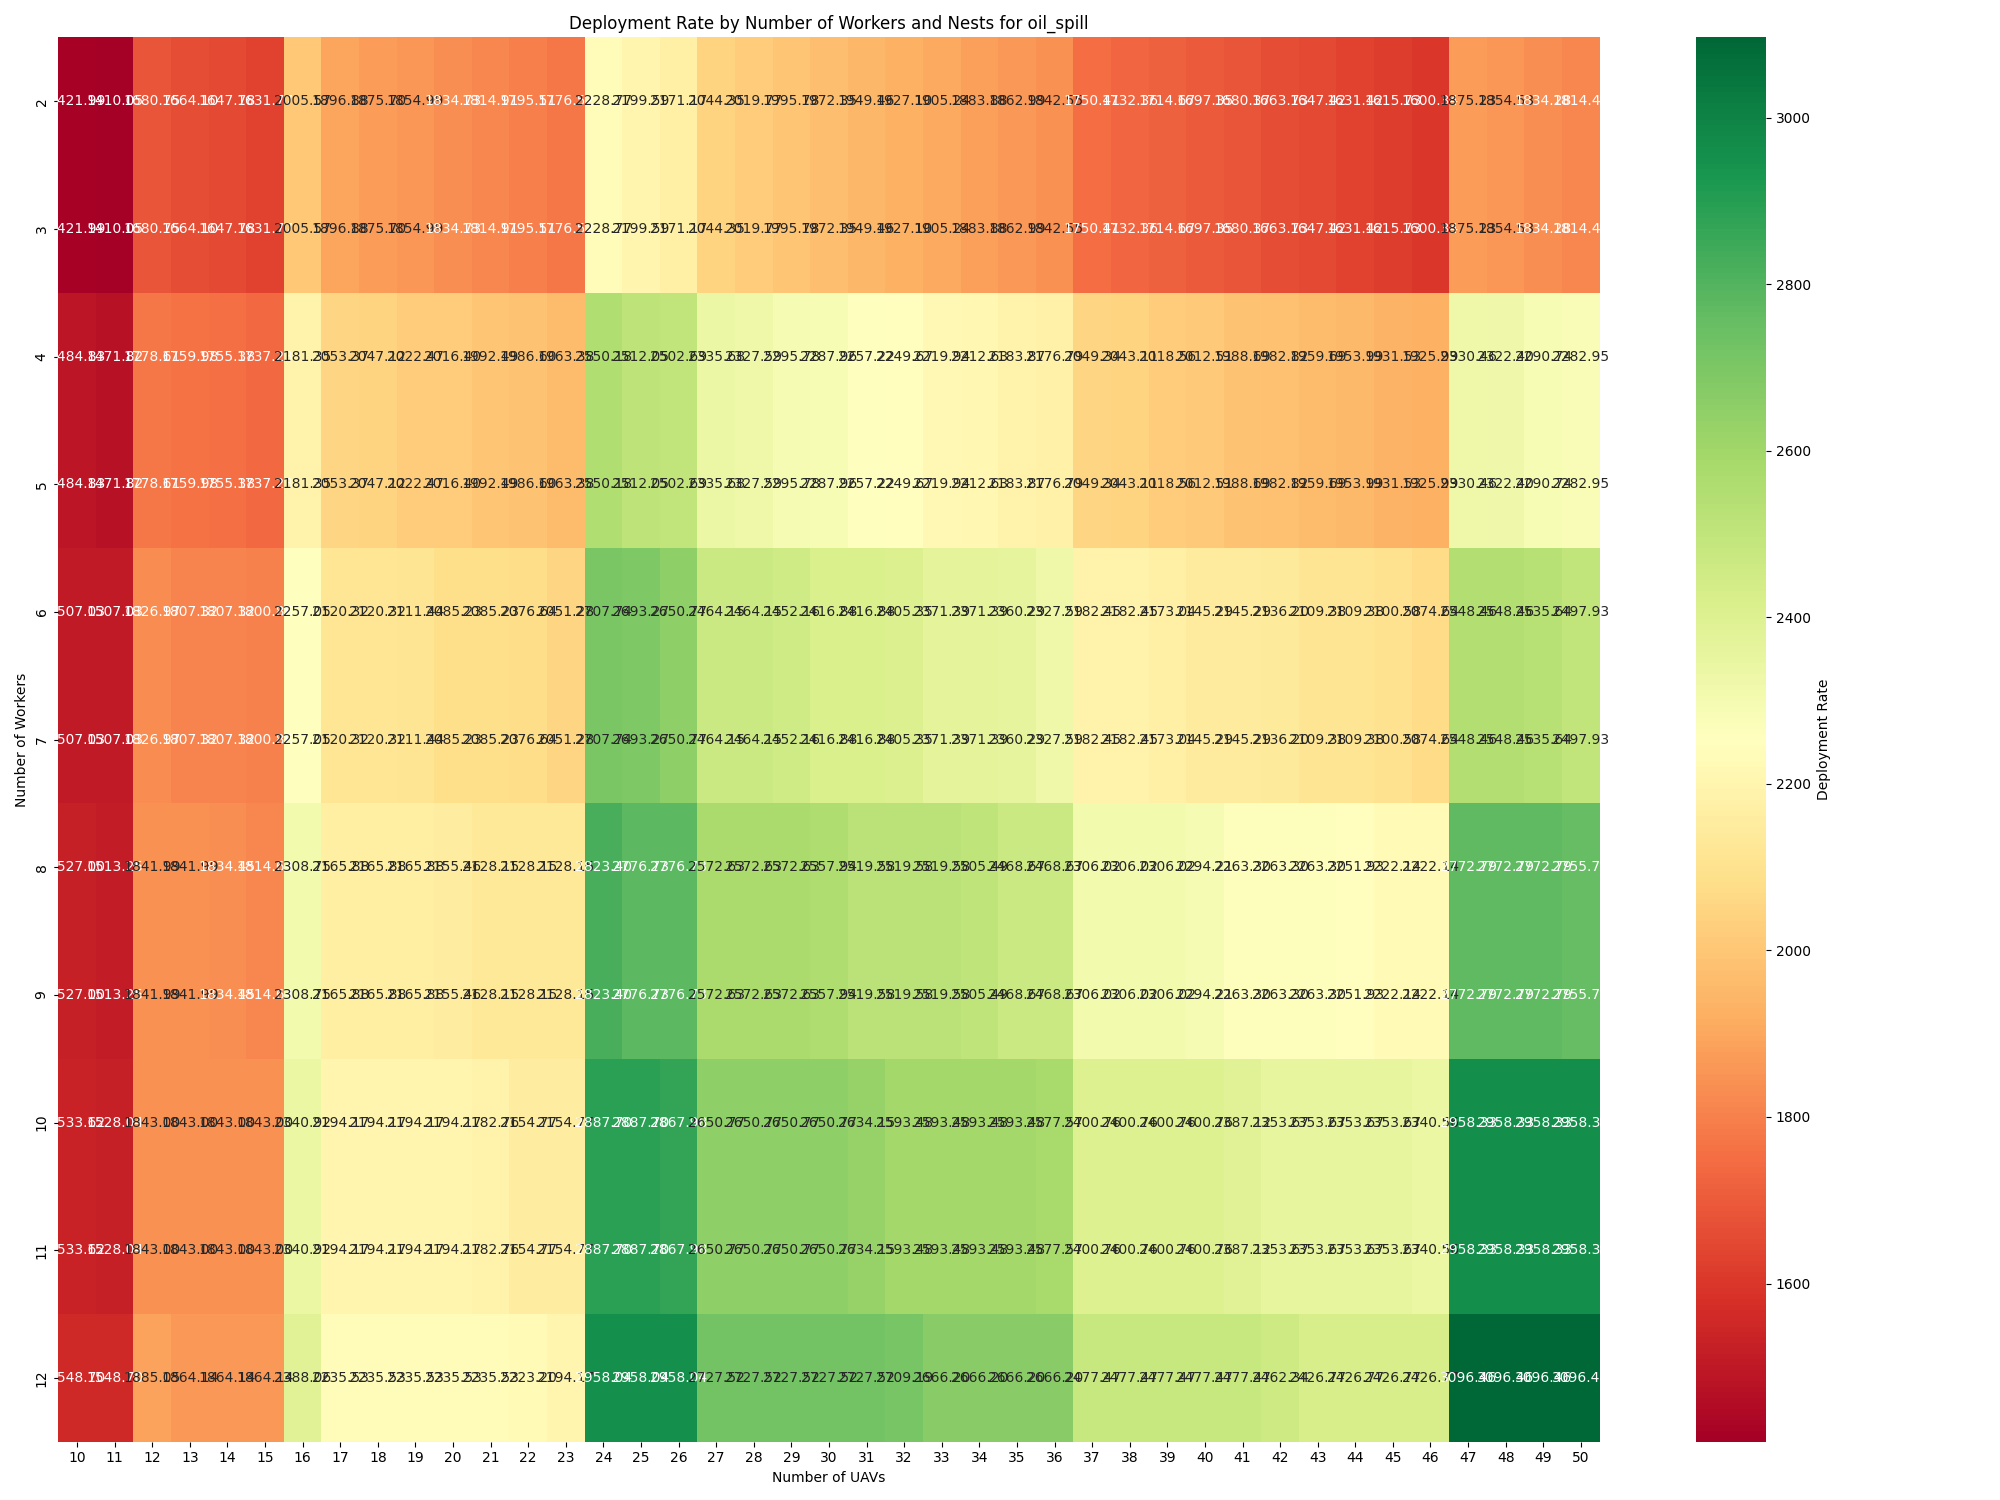
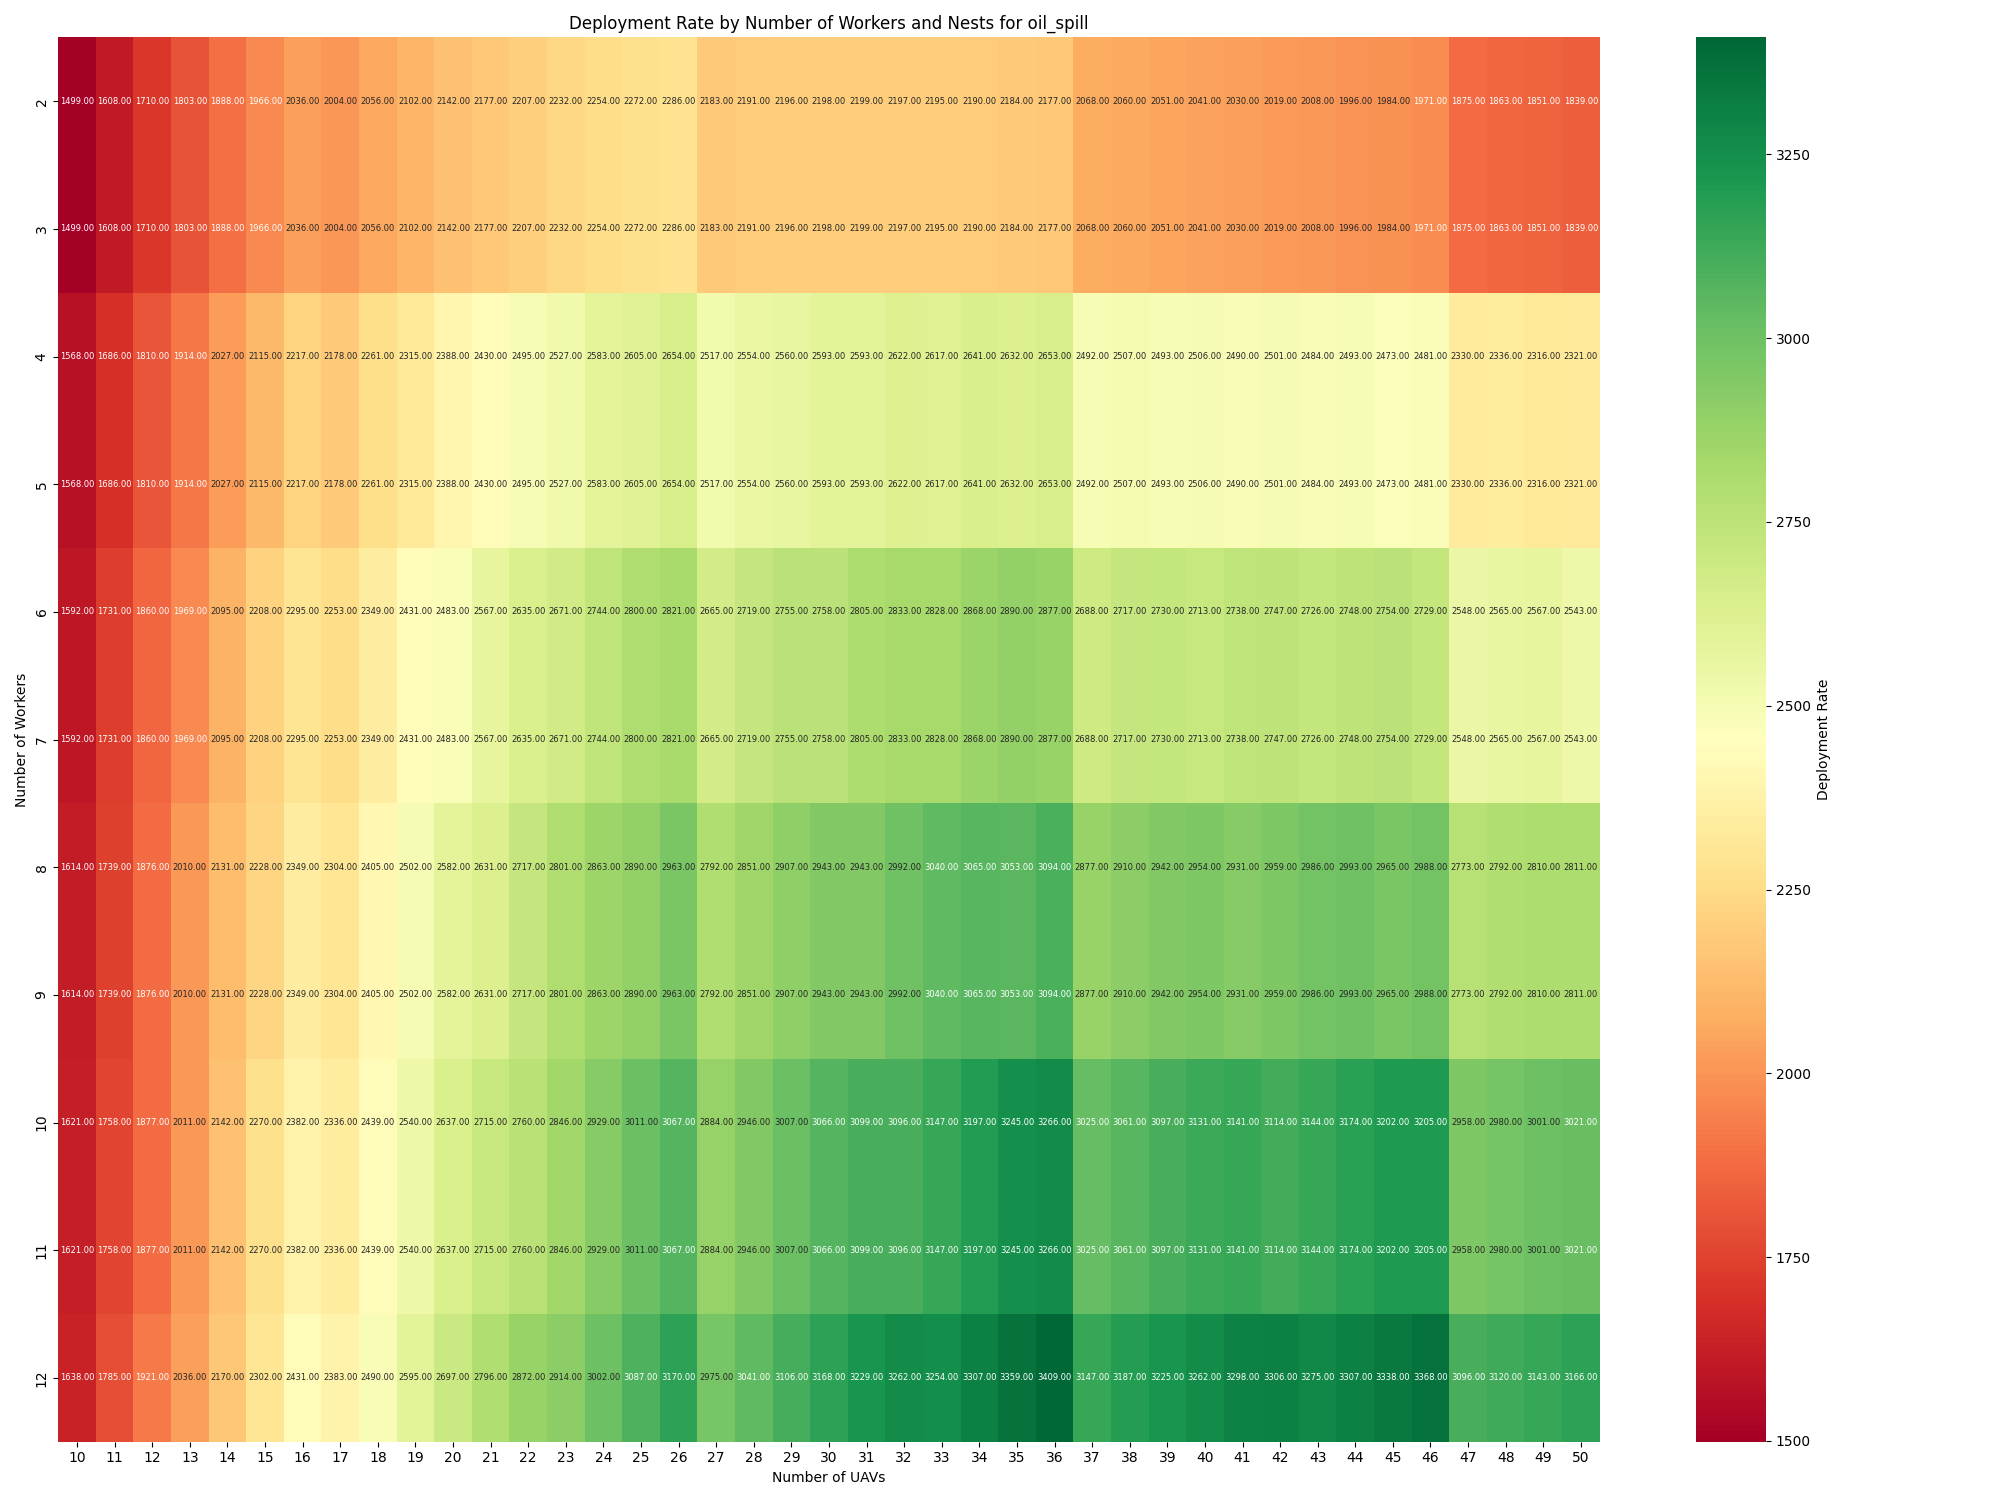
Fixed perimeter thingie

diff --git a/DetailedDesign/performance.py b/DetailedDesign/performance.py
@@ -72,42 +72,69 @@ class Performance:
         if plot:
 
             range_range = range(10000, 25000, 1000)
-            oil_range = range(1000, 8001, 1000)
-            perimeter_range = range(100, 2000, 1000)
+            oil_range = range(1000, 9001, 1000)
+            perimeter_range = range(100, 601, 100)
             
-            dep_range = []
+            time_range = []
             grid = []
             for r in range_range:
-                print(r)
                 for m in oil_range:
-                    mis = Mission(self.inputs, verbose=True)
+                    mis = Mission(self.inputs)
                     mis.oil_mass = m
                     mis.mission_type = 'oil_spill'
                     mis.R_max = r
-                    # res, _ = mis.performance_calcs(r, self.n_uavs, self.n_nests, self.n_workers)
-                    # res = m / (res/60/60)
                     mis.calc_total_mission_time()
-                    res = mis.time_operation
-                    dep_range.append(res)
+                    res = mis.total_mission_time / (60)
+                    time_range.append(res)
                     grid.append((r, m))
+                    if r == 20000 and m == 7000:
+                        print(res)
 
 
             range_vals = sorted(set([pt[0] for pt in grid]))
             oil_vals = sorted(set([pt[1] for pt in grid]))
 
-            Z = np.array(dep_range).reshape(len(oil_vals), len(range_vals))
+            Z = np.array(time_range).reshape(len(range_vals), len(oil_vals)).T
             X, Y = np.meshgrid(range_vals, oil_vals)  # X: range, Y: AR
 
             plt.figure(figsize=(8, 6))
             cp = plt.pcolormesh(X, Y, Z, cmap='plasma')
-            plt.colorbar(cp, label='deployment_rate [kg/h]')
+            plt.colorbar(cp, label='total response time [min]')
             plt.xlabel('Range [m]')
             plt.ylabel('oil mass [kg]')
             plt.savefig('DetailedDesign\plots\oil_range.png')
             plt.show()
+
+            time_range = []
+            grid = []
+            for r in range_range:
+                for p in perimeter_range:
+                    mis = Mission(self.inputs)
+                    mis.mission_perimeter = p
+                    mis.mission_type = 'wildfire'
+                    mis.R_max = r
+                    mis.calc_total_mission_time()
+                    res = mis.total_mission_time / (60)
+                    time_range.append(res)
+                    grid.append((r, p))
+
+
+            range_vals = sorted(set([pt[0] for pt in grid]))
+            perimeter_vals = sorted(set([pt[1] for pt in grid]))
+
+            Z = np.array(time_range).reshape(len(range_vals), len(perimeter_vals)).T
+            X, Y = np.meshgrid(range_vals, perimeter_vals)  # X: range, Y: AR
+
+            plt.figure(figsize=(8, 6))
+            cp = plt.pcolormesh(X, Y, Z, cmap='plasma')
+            plt.colorbar(cp, label='total response time [min]')
+            plt.xlabel('Range [m]')
+            plt.ylabel('Mission perimeter [m]')
+            plt.savefig('DetailedDesign\plots\perimeter_range.png')
+            plt.show()
             
 
-            '''
+            
             #Deployment range based on nr_nests and nr_workers
             uavs_range = range(10, 51)
             workers_range = range(2, 13)
@@ -116,30 +143,37 @@ class Performance:
 
 
             for strat in ['oil_spill', 'wildfire']:
+                uav_worker_table = pd.DataFrame(index=workers_range, columns=uavs_range, dtype=float)
                 for workers in workers_range:
                     for uavs in uavs_range:
                         nests = 1 + max(0, math.ceil((uavs - self.generator_nest_cap) / self.reg_nest_cap))
                         mis = Mission(self.inputs)
                         mis.mission_type = strat
-                        dep_time, _ = mis.performance_calcs(self.range, uavs, nests, workers)
-                        dep_time = dep_time / (60*60)
+                        mis.number_of_UAV = uavs
+                        mis.number_of_workers = workers
+                        mis.number_of_containers = nests
+                        mis.calc_total_mission_time()
+
+                        if workers == workers_range[0] and (uavs == 23 or uavs == 24):
+                            print(vars(mis))  
+                        dep_time = mis.total_mission_time / (60*60)
                         if strat == 'oil_spill':
-                            uav_worker_table.loc[workers, uavs] = self.oil_mass / dep_time
+                            uav_worker_table.loc[workers, uavs] = round(self.oil_mass / dep_time)
                         else:
                             if nests <= workers <= 2 * nests:
-                                uav_worker_table.loc[workers, uavs] = self.mission_perimeter / dep_time
+                                uav_worker_table.loc[workers, uavs] = round(self.mission_perimeter / dep_time)
                             else:
                                 uav_worker_table.loc[workers, uavs] = np.nan
 
                 plt.figure(figsize=(20, 15))
-                sns.heatmap(uav_worker_table, annot=True, fmt=".2f", cmap="RdYlGn", cbar_kws={'label': 'Deployment Rate'})
+                sns.heatmap(uav_worker_table, annot=True, fmt=".2f", cmap="RdYlGn", cbar_kws={'label': 'Deployment Rate'}, annot_kws={"size": 6})
                 plt.title(f"Deployment Rate by Number of Workers and Nests for {strat}")
                 plt.xlabel("Number of UAVs")
                 plt.ylabel("Number of Workers")
                 plt.tight_layout()
                 plt.savefig(f"DetailedDesign\plots\{strat}_worker_nest_heatmap.png")
                 plt.show()   
-                '''
+                
 
 
 
@@ -176,8 +210,8 @@ if __name__ == '__main__':
     from funny_inputs import deployment_funny_inputs
 
     test_inputs_performance = {
-        "number_of_UAVs": 6,
-        "number_of_containers": 2,
+        "number_of_UAVs": 20,
+        "number_of_containers": 3,
         "capacity_gen": 6,
         "capacity_nogen": 10,
         "number_of_workers": 6,
@@ -191,7 +225,7 @@ if __name__ == '__main__':
         "time_deploy": 20.0,
         "time_scan": 60.0,
         "mission_type": "oil_spill",
-        "mission_perimeter": 1000.0,
+        "mission_perimeter": 500.0,
         "oil_mass": 7000.0,
         "R_max": 20000.0,
         "R_min": 1000.0,
@@ -210,27 +244,3 @@ if __name__ == '__main__':
     perf = Performance(test_inputs_performance)
 
     perf.deployment_rates()
-
-
-'''
-17 km
-UAV Mission Time: 2578.333333333333 seconds
-Number of cycles: 1.0
-Time Operation: 42.972222222222214 minutes
-UAV Mission Time: 2578.333333333333 seconds
-total_mission_time 6066.666666666666
-
-18 km
-UAV Mission Time: 2711.6666666666665 seconds
-Number of cycles: 1.0
-Time Operation: 45.19444444444444 minutes
-UAV Mission Time: 2711.6666666666665 seconds
-total_mission_time 6333.333333333333
-
-19 km
-UAV Mission Time: 2845.0 seconds
-Number of cycles: 1.0
-Time Operation: 47.416666666666664 minutes
-UAV Mission Time: 2845.0 seconds
-
-'''

diff --git a/DetailedDesign/mission.py b/DetailedDesign/mission.py
@@ -13,7 +13,7 @@ class Mission:
 
     def __init__(self, inputs: dict[str, float], verbose: bool = False) -> None:
         
-        # self.inputs = inputs
+        self.inputs = inputs
         # self.outputs = self.inputs.copy() # Copy inputs to outputs
         self.verbose = verbose
 
@@ -280,7 +280,7 @@ class Mission:
         if self.mission_type == "wildfire":
 
             # For wildfire
-            self.nr_runs_fire = self.deployment.perimeter_creation()
+            self.nr_runs_fire = Deployment(self.inputs, 'perimeter', self.mission_perimeter).perimeter_creation()
             self.num_trips = self.nr_runs_fire
 
         elif self.mission_type == "oil_spill":
@@ -311,7 +311,8 @@ class Mission:
         self.calc_UAV_runs()
 
         #self.num_trips = self.num_aerogels
-        num_cycles = np.ceil(self.num_trips / self.number_of_UAV)
+        num_cycles = self.num_trips / self.number_of_UAV
+        self.num_cycles = num_cycles
         self.time_operation = num_cycles * self.time_uav
 
         if self.verbose:
@@ -459,7 +460,7 @@ if __name__ == '__main__':
         "time_scan": 60.0,
         "mission_type": "oil_spill",
         "mission_perimeter": 1000.0,
-        "oil_mass": 5000.0,
+        "oil_mass": 7000.0,
         "R_max": 20000.0,
         "R_min": 1000.0,
         #"nr_aerogels": 12,
@@ -474,7 +475,16 @@ if __name__ == '__main__':
     test_inputs_mission.update(deployment_funny_inputs)
 
     mission = Mission(test_inputs_mission)
-    print(mission.performance_calcs(20000, 20, 3, 6), mission.num_trips)
+
+    mission.mission_type = 'wildfire'
+    mission.mission_perimeter = 201
+    mission.calc_total_mission_time()
+    print(mission.num_trips)
+    print(round(mission.total_mission_time) / 60 / 60)
+
+    mission.mission_type = 'oil_spill'
+    mission.calc_total_mission_time()
+    print(round(mission.total_mission_time)) 
 
 
     
